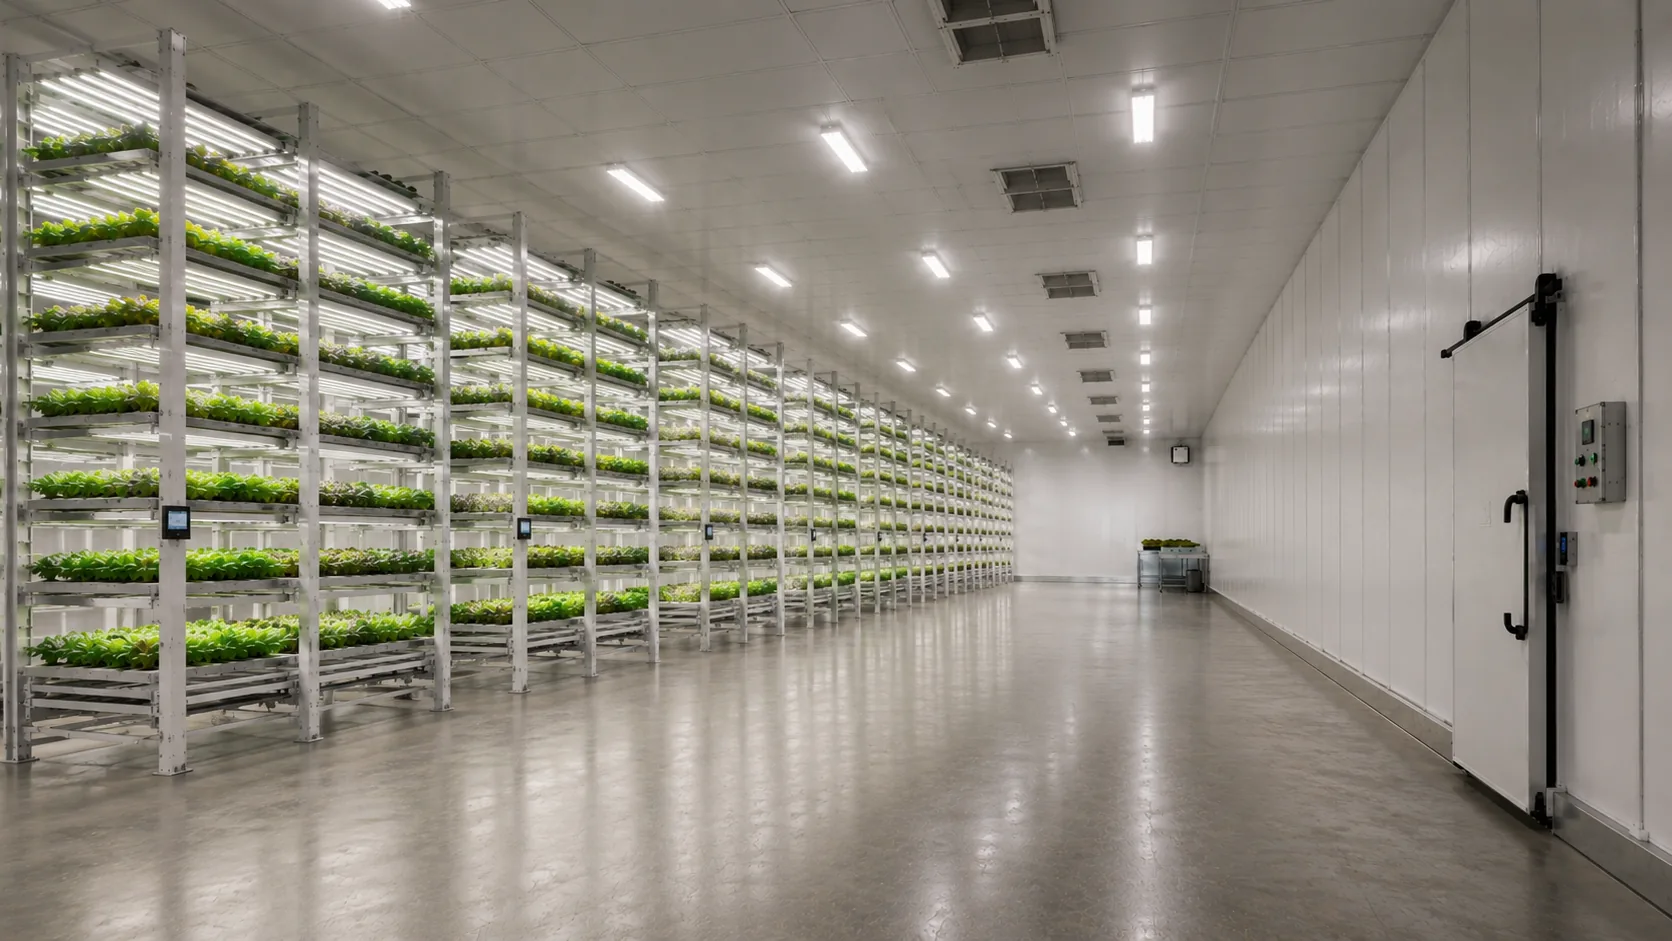
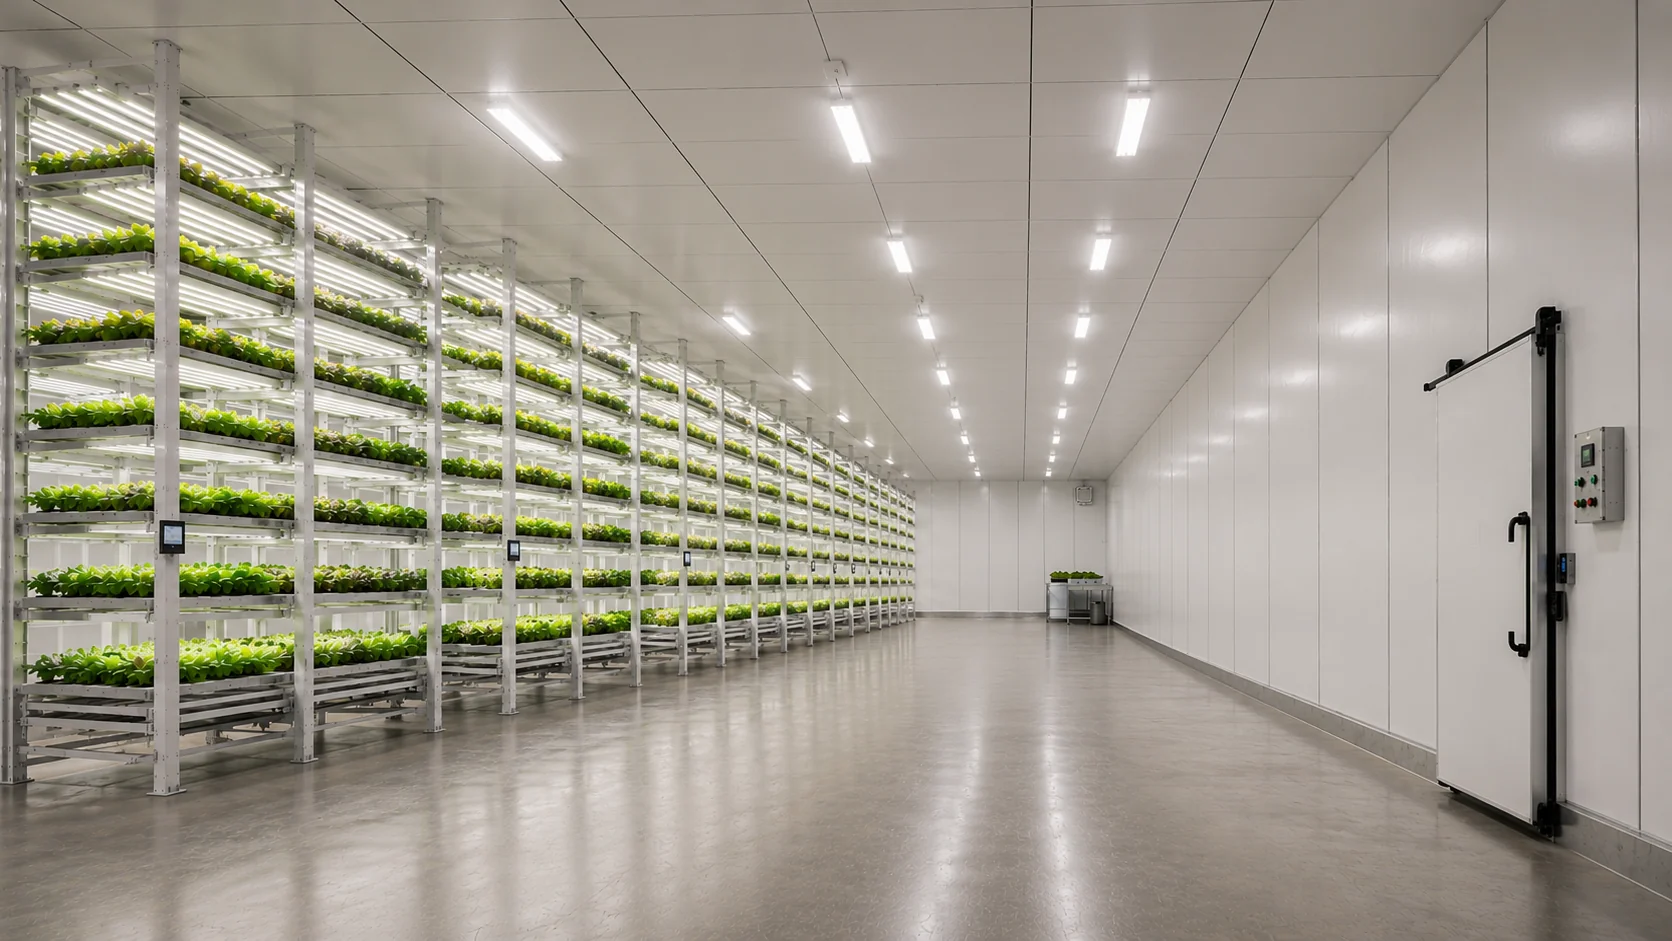
update responsive screen

diff --git a/src/pages/HomePage.jsx b/src/pages/HomePage.jsx
@@ -14,7 +14,7 @@ import {
   PHARMACEUTICAL_PANELS,
   TRIM_HARDWARE_PANELS,
 } from "../data/panels";
-import { PARALLAX_BG_URL, VIDEO_URL } from "../data/site";
+import { CURTAIN_BG_URL, PARALLAX_BG_URL, VIDEO_URL } from "../data/site";
 import { useHeroParallax } from "../hooks/useHeroParallax";
 import { useLightbox } from "../hooks/useLightbox";
 import { usePageMeta } from "../hooks/usePageMeta";
@@ -147,7 +147,7 @@ function HomePage() {
         <div
           className="hp-parallax"
           ref={parallaxRef}
-          style={{ backgroundImage: `url(${PARALLAX_BG_URL})` }}
+          style={{ backgroundImage: `url(${CURTAIN_BG_URL})` }}
         />
       </div>
 

diff --git a/src/data/site.js b/src/data/site.js
@@ -1,8 +1,10 @@
 import skiesVideo from "../assets/videos/AI VIdeo - Skies1 - 1.mp4";
 import facilityImg from "../assets/images/General/Harvest Panel Systems Facility.webp";
+import facilityInteriorImg from "../assets/images/General/Harvest Panel Systems Interior.webp";
 
 export const VIDEO_URL = skiesVideo;
 export const PARALLAX_BG_URL = facilityImg;
+export const CURTAIN_BG_URL = facilityInteriorImg;
 
 export const CONTACT = {
   address: "5920 Campbell Ln, Piedmont, Oklahoma 73078, United States",
